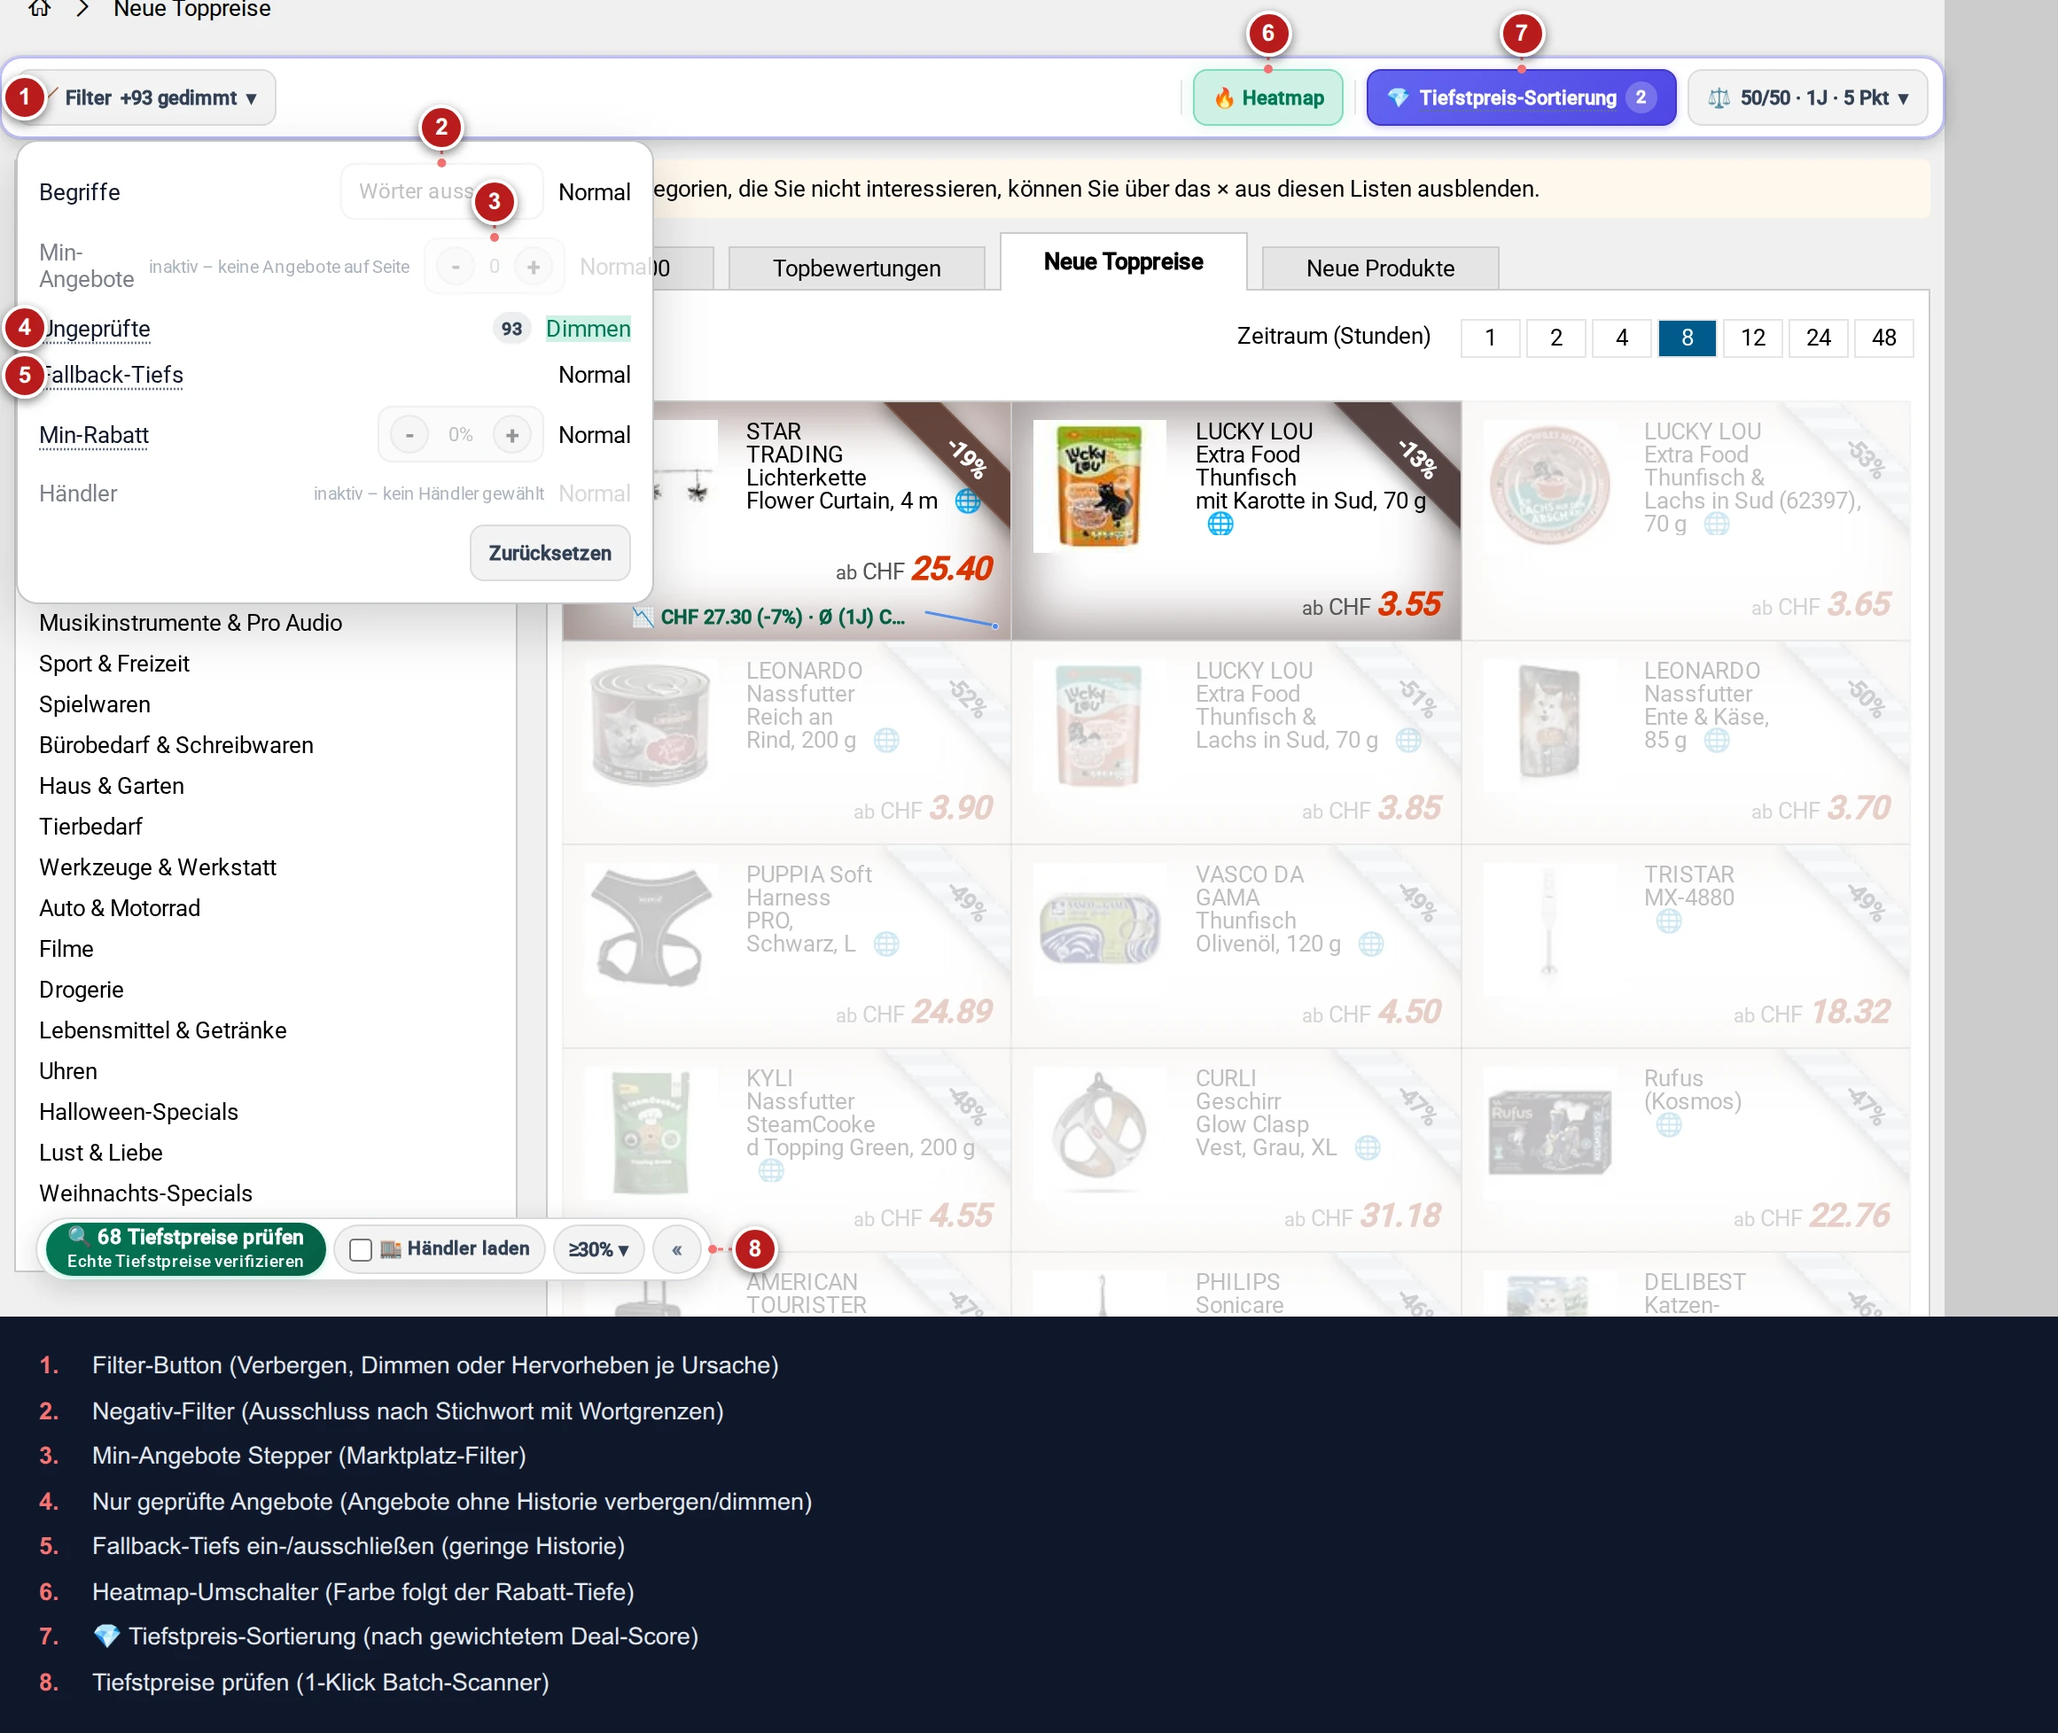
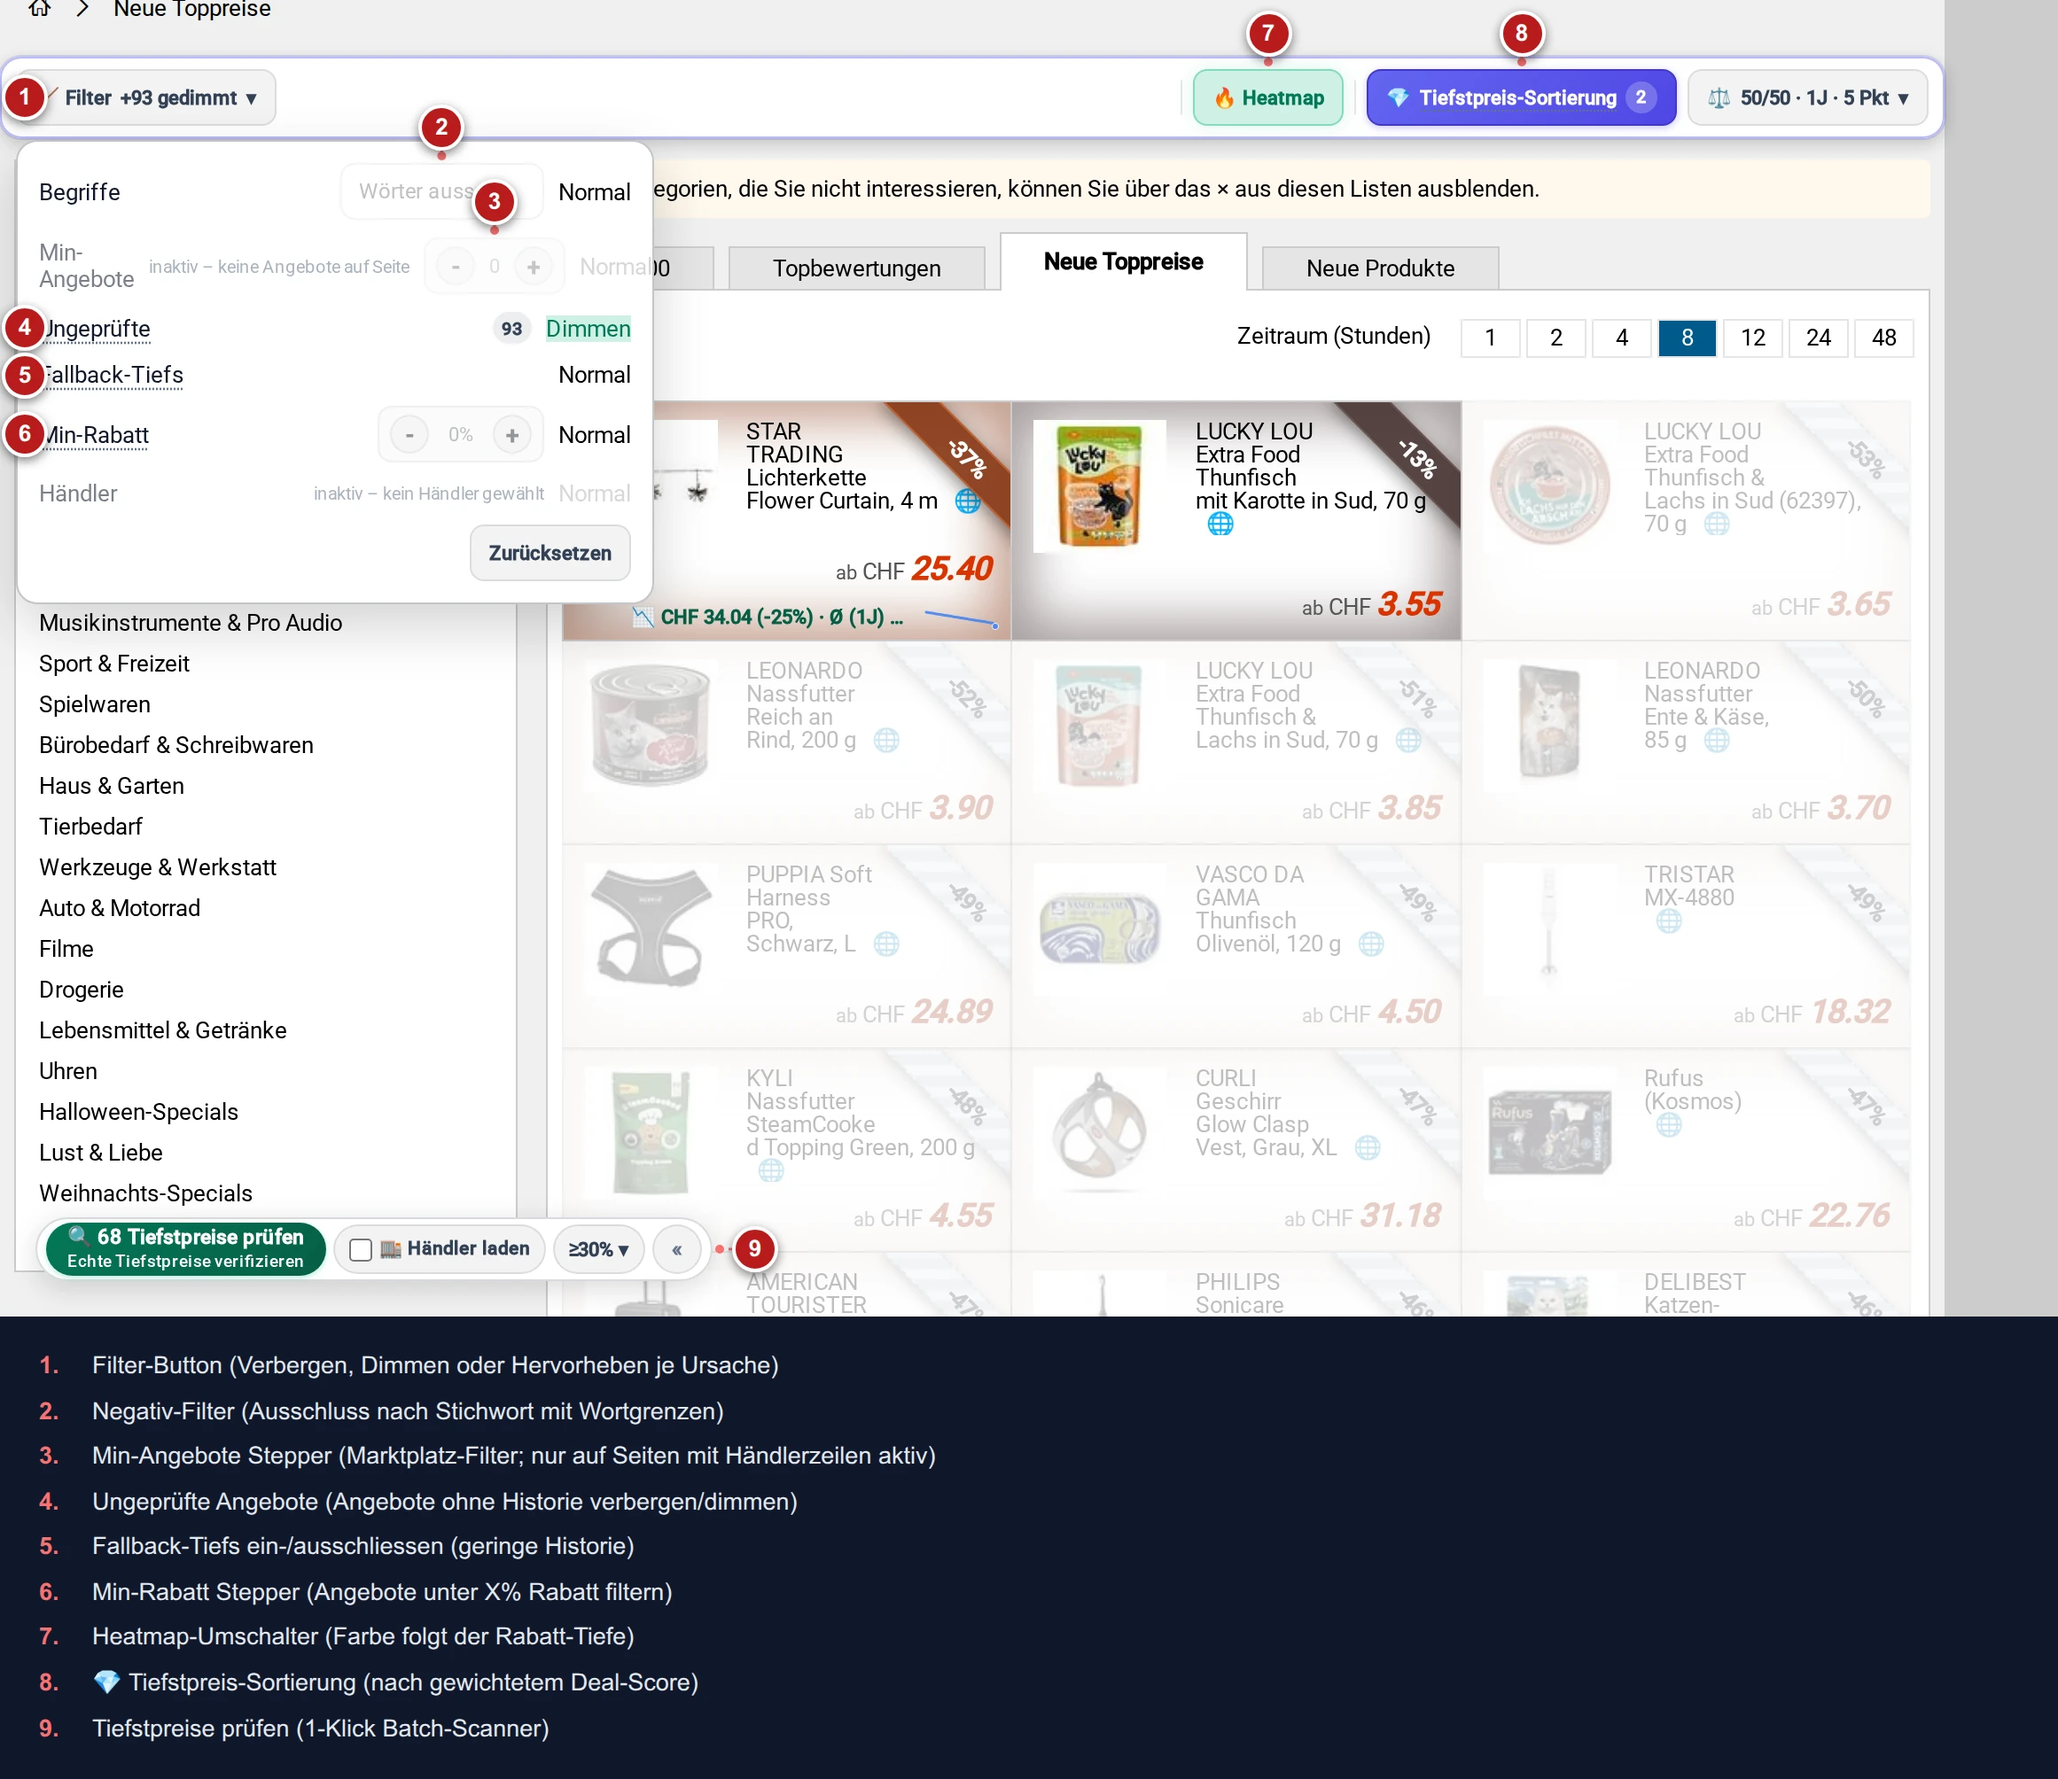
chore(shots): regenerate crisp annotated screenshots and gallery

diff --git a/toppreise/docs/shots/index.html b/toppreise/docs/shots/index.html
@@ -125,14 +125,14 @@
 <body>
 <header>
   <h1>Toppreise.ch Suite — Screenshot Gallery</h1>
-  <div class="timestamp">Generiert: 2026-10-17 20:33:24 UTC</div>
+  <div class="timestamp">Generiert: 2026-10-17 20:53:38 UTC</div>
 </header>
 <main class="gallery-grid">
   
         <section class="gallery-card">
           <div class="card-header">
             <h2>toolbar <span class="tag">01a-toolbar.webp</span></h2>
-            <span class="meta">Snapshot: <strong>feed</strong> · 8 Callouts</span>
+            <span class="meta">Snapshot: <strong>feed</strong> · 9 Callouts</span>
           </div>
           <div class="card-body">
             <div class="image-wrap">
@@ -146,7 +146,7 @@
                   <tr><th>#</th><th>Element / Beschreibung</th></tr>
                 </thead>
                 <tbody>
-                  <tr><td class='num'>1</td><td class='cap'>Filter-Button (Verbergen, Dimmen oder Hervorheben je Ursache)</td></tr><tr><td class='num'>2</td><td class='cap'>Negativ-Filter (Ausschluss nach Stichwort mit Wortgrenzen)</td></tr><tr><td class='num'>3</td><td class='cap'>Min-Angebote Stepper (Marktplatz-Filter)</td></tr><tr><td class='num'>4</td><td class='cap'>Nur geprüfte Angebote (Angebote ohne Historie verbergen/dimmen)</td></tr><tr><td class='num'>5</td><td class='cap'>Fallback-Tiefs ein-/ausschließen (geringe Historie)</td></tr><tr><td class='num'>6</td><td class='cap'>Heatmap-Umschalter (Farbe folgt der Rabatt-Tiefe)</td></tr><tr><td class='num'>7</td><td class='cap'>💎 Tiefstpreis-Sortierung (nach gewichtetem Deal-Score)</td></tr><tr><td class='num'>8</td><td class='cap'>Tiefstpreise prüfen (1-Klick Batch-Scanner)</td></tr>
+                  <tr><td class='num'>1</td><td class='cap'>Filter-Button (Verbergen, Dimmen oder Hervorheben je Ursache)</td></tr><tr><td class='num'>2</td><td class='cap'>Negativ-Filter (Ausschluss nach Stichwort mit Wortgrenzen)</td></tr><tr><td class='num'>3</td><td class='cap'>Min-Angebote Stepper (Marktplatz-Filter; nur auf Seiten mit Händlerzeilen aktiv)</td></tr><tr><td class='num'>4</td><td class='cap'>Ungeprüfte Angebote (Angebote ohne Historie verbergen/dimmen)</td></tr><tr><td class='num'>5</td><td class='cap'>Fallback-Tiefs ein-/ausschliessen (geringe Historie)</td></tr><tr><td class='num'>6</td><td class='cap'>Min-Rabatt Stepper (Angebote unter X% Rabatt filtern)</td></tr><tr><td class='num'>7</td><td class='cap'>Heatmap-Umschalter (Farbe folgt der Rabatt-Tiefe)</td></tr><tr><td class='num'>8</td><td class='cap'>💎 Tiefstpreis-Sortierung (nach gewichtetem Deal-Score)</td></tr><tr><td class='num'>9</td><td class='cap'>Tiefstpreise prüfen (1-Klick Batch-Scanner)</td></tr>
                 </tbody>
               </table>
             </div>
@@ -156,7 +156,7 @@
         <section class="gallery-card">
           <div class="card-header">
             <h2>calc <span class="tag">01b-calc-popover.webp</span></h2>
-            <span class="meta">Snapshot: <strong>feed</strong> · 4 Callouts</span>
+            <span class="meta">Snapshot: <strong>feed</strong> · 7 Callouts</span>
           </div>
           <div class="card-body">
             <div class="image-wrap">
@@ -170,7 +170,7 @@
                   <tr><th>#</th><th>Element / Beschreibung</th></tr>
                 </thead>
                 <tbody>
-                  <tr><td class='num'>1</td><td class='cap'>Glitch-Vorschau (Live-Chart mit Median, Rekord, Glitch-Band &amp; Erkennung)</td></tr><tr><td class='num'>2</td><td class='cap'>Gewichtung Median / Rekord (Schieberegler für Deal-Score)</td></tr><tr><td class='num'>3</td><td class='cap'>Ø-Zeitraum (Rolling Median von 30 bis 730 Tagen oder Lifetime)</td></tr><tr><td class='num'>4</td><td class='cap'>Mindestpunkte (erforderliche Datenpunkte für qualifizierte Historie)</td></tr>
+                  <tr><td class='num'>1</td><td class='cap'>Gewichtung Median / Rekord (Schieberegler für Deal-Score)</td></tr><tr><td class='num'>2</td><td class='cap'>Ø-Zeitraum (Rolling Median von 30 bis 730 Tagen oder Lifetime)</td></tr><tr><td class='num'>3</td><td class='cap'>Mindestpunkte (erforderliche Datenpunkte für qualifizierten Ø-Vergleich)</td></tr><tr><td class='num'>4</td><td class='cap'>Ausreisser filtern (Aktiviert automatische Glitch-Erkennung)</td></tr><tr><td class='num'>5</td><td class='cap'>Glitch-Band (Toleranzband um den Median in ±%)</td></tr><tr><td class='num'>6</td><td class='cap'>Glitch-Fenster (Maximale Glitch-Dauer in Stunden)</td></tr><tr><td class='num'>7</td><td class='cap'>Glitch-Vorschau (Live-Chart mit Ø-Preis, Rekord, Glitch-Band &amp; roten ✕ Glitches)</td></tr>
                 </tbody>
               </table>
             </div>
@@ -227,13 +227,13 @@
         
         <section class="gallery-card">
           <div class="card-header">
-            <h2>settings <span class="tag">04-settings-modal.webp</span></h2>
+            <h2>settings_core <span class="tag">04a-settings-core.webp</span></h2>
             <span class="meta">Snapshot: <strong>feed</strong> · 5 Callouts</span>
           </div>
           <div class="card-body">
             <div class="image-wrap">
-              <a href="04-settings-modal.webp" target="_blank" title="Klick für Vollbild">
-                <img src="04-settings-modal.webp" alt="settings" loading="lazy">
+              <a href="04a-settings-core.webp" target="_blank" title="Klick für Vollbild">
+                <img src="04a-settings-core.webp" alt="settings_core" loading="lazy">
               </a>
             </div>
             <div class="legend-wrap">
@@ -242,7 +242,31 @@
                   <tr><th>#</th><th>Element / Beschreibung</th></tr>
                 </thead>
                 <tbody>
-                  <tr><td class='num'>1</td><td class='cap'>Deckkraft / Dimmung für gefilterte Angebote (Schieberegler)</td></tr><tr><td class='num'>2</td><td class='cap'>Preisalarm Auto-Fill: Zielpreis (%) &amp; Dauer</td></tr><tr><td class='num'>3</td><td class='cap'>Discord Webhook: Direkte 1-Klick Deal-Integration (lokal gespeichert)</td></tr><tr><td class='num'>4</td><td class='cap'>Discord Layout-Baukasten mit Live-Markdown-Vorschau</td></tr><tr><td class='num'>5</td><td class='cap'>Cache-Verwaltung: TTL-Regler, Speicherbereinigung &amp; Konfigurations-Export</td></tr>
+                  <tr><td class='num'>1</td><td class='cap'>Deckkraft / Dimmung für gefilterte Angebote (Schieberegler)</td></tr><tr><td class='num'>2</td><td class='cap'>Review-Suche (🌐): Google-Suche mit optionalem KI-Modus</td></tr><tr><td class='num'>3</td><td class='cap'>Tiefstpreis-Sortierung: Rangfolge nach Gewichteter Differenz</td></tr><tr><td class='num'>4</td><td class='cap'>Preis-Toleranz (%): Händler-Bestpreis-Marge</td></tr><tr><td class='num'>5</td><td class='cap'>Preisalarm Auto-Fill: Zielpreis (%) &amp; Dauer</td></tr>
+                </tbody>
+              </table>
+            </div>
+          </div>
+        </section>
+        
+        <section class="gallery-card">
+          <div class="card-header">
+            <h2>settings_advanced <span class="tag">04b-settings-advanced.webp</span></h2>
+            <span class="meta">Snapshot: <strong>feed</strong> · 5 Callouts</span>
+          </div>
+          <div class="card-body">
+            <div class="image-wrap">
+              <a href="04b-settings-advanced.webp" target="_blank" title="Klick für Vollbild">
+                <img src="04b-settings-advanced.webp" alt="settings_advanced" loading="lazy">
+              </a>
+            </div>
+            <div class="legend-wrap">
+              <table>
+                <thead>
+                  <tr><th>#</th><th>Element / Beschreibung</th></tr>
+                </thead>
+                <tbody>
+                  <tr><td class='num'>1</td><td class='cap'>Discord Webhook: Direkte 1-Klick Deal-Integration (lokal gespeichert)</td></tr><tr><td class='num'>2</td><td class='cap'>Discord Layout-Baukasten mit variablen Tokens</td></tr><tr><td class='num'>3</td><td class='cap'>Live-Markdown-Vorschau der generierten Nachricht</td></tr><tr><td class='num'>4</td><td class='cap'>Händler automatisch im Hintergrund laden (max. 3 parallel)</td></tr><tr><td class='num'>5</td><td class='cap'>Cache-Verwaltung: TTL-Regler, Speicherbereinigung &amp; Konfigurations-Export</td></tr>
                 </tbody>
               </table>
             </div>
